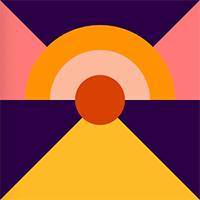
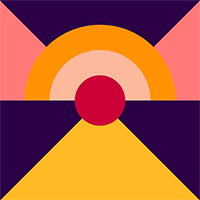
add style to memory card game

diff --git a/classfiles/wk5/assignment/main.js b/classfiles/wk5/assignment/main.js
@@ -54,11 +54,11 @@ function setup () {
 }
 
 function draw () {
-    background (0);
+    background ('#fcb99d');
     if (gameState.numMatched === gameState.totalPairs) {
-        fill('yellow');
-        textSize(66);
-        text('winner winner chicken dinner', 400, 100);
+        fill('#d94100');
+        textSize(50);
+        text('winner winner chicken dinner', 300, 200);
         noLoop();
     }
     for (let b = 0; b < cards.length; b++) {
@@ -71,10 +71,13 @@ function draw () {
     //create scoreboard
     gameState.flippedCards.length = 0;
     gameState.waiting = false;
-    fill(255);
-    textSize(36);
-    text('attempts ' + gameState.attempts, 100, 100);
-    text('matches ' + gameState.numMatched, 100, 150);
+    fill('#2c0045');
+    textFont('Josefin Sans');
+    textSize(60);
+    text('Memory Card Game', 270, 100);
+    textSize(20);
+    text('Attempts: ' + gameState.attempts, 100, 200);
+    text('Matches: ' + gameState.numMatched, 100, 225);
 }
 
 

diff --git a/classfiles/wk5/assignment/index.html b/classfiles/wk5/assignment/index.html
@@ -5,8 +5,13 @@
     <meta http-equiv="X-UA-Compatible" content="IE=edge">
     <meta name="viewport" content="width=device-width, initial-scale=1.0">
     <title>Memory Game Part Two</title>
+    <link href="main.css" rel="stylesheet">
+    <link rel="preconnect" href="https://fonts.googleapis.com">
+    <link rel="preconnect" href="https://fonts.gstatic.com" crossorigin>
+    <link href="https://fonts.googleapis.com/css2?family=Josefin+Sans:wght@300;400;700&display=swap" rel="stylesheet"> 
 </head>
 <body>
+    <button>Restart</button>
     <script src="main.js"></script>
     <script src="https://cdnjs.cloudflare.com/ajax/libs/p5.js/1.4.0/p5.min.js" integrity="sha512-N4kV7GkNv7QR7RX9YF/olywyIgIwNvfEe2nZtfyj73HdjCUkAfOBDbcuJ/cTaN04JKRnw1YG1wnUyNKMsNgg3g==" crossorigin="anonymous" referrerpolicy="no-referrer"></script>
 </body>

diff --git a/classfiles/wk5/assignment/main.css b/classfiles/wk5/assignment/main.css
@@ -1,0 +1,14 @@
+html {
+    --purple: #2c0045;
+    --pink: #ff7878;
+    --yellow: #ffba26;
+    --orange: #ff9100;
+    --pink-light: #fcb99d;
+    --orange-dark: #d94100;
+    --font-sans-serif: 'Josefin Sans', sans-serif;
+}
+
+body {
+    font-family: var(--font-sans-serif);
+    background-color: var(--pink-light);
+}

diff --git a/classfiles/wk3/exercises/ex1/main.js b/classfiles/wk3/exercises/ex1/main.js
@@ -17,7 +17,7 @@ function createTile() {
     arc(100, 100, 150, 150, PI, TWO_PI);
     fill('#fcb99d');
     arc(100, 100, 100, 100, PI, TWO_PI);
-    fill('#d94100');
+    fill('#cc0235');
     circle(100, 100, 50);
 }
 function draw(){
